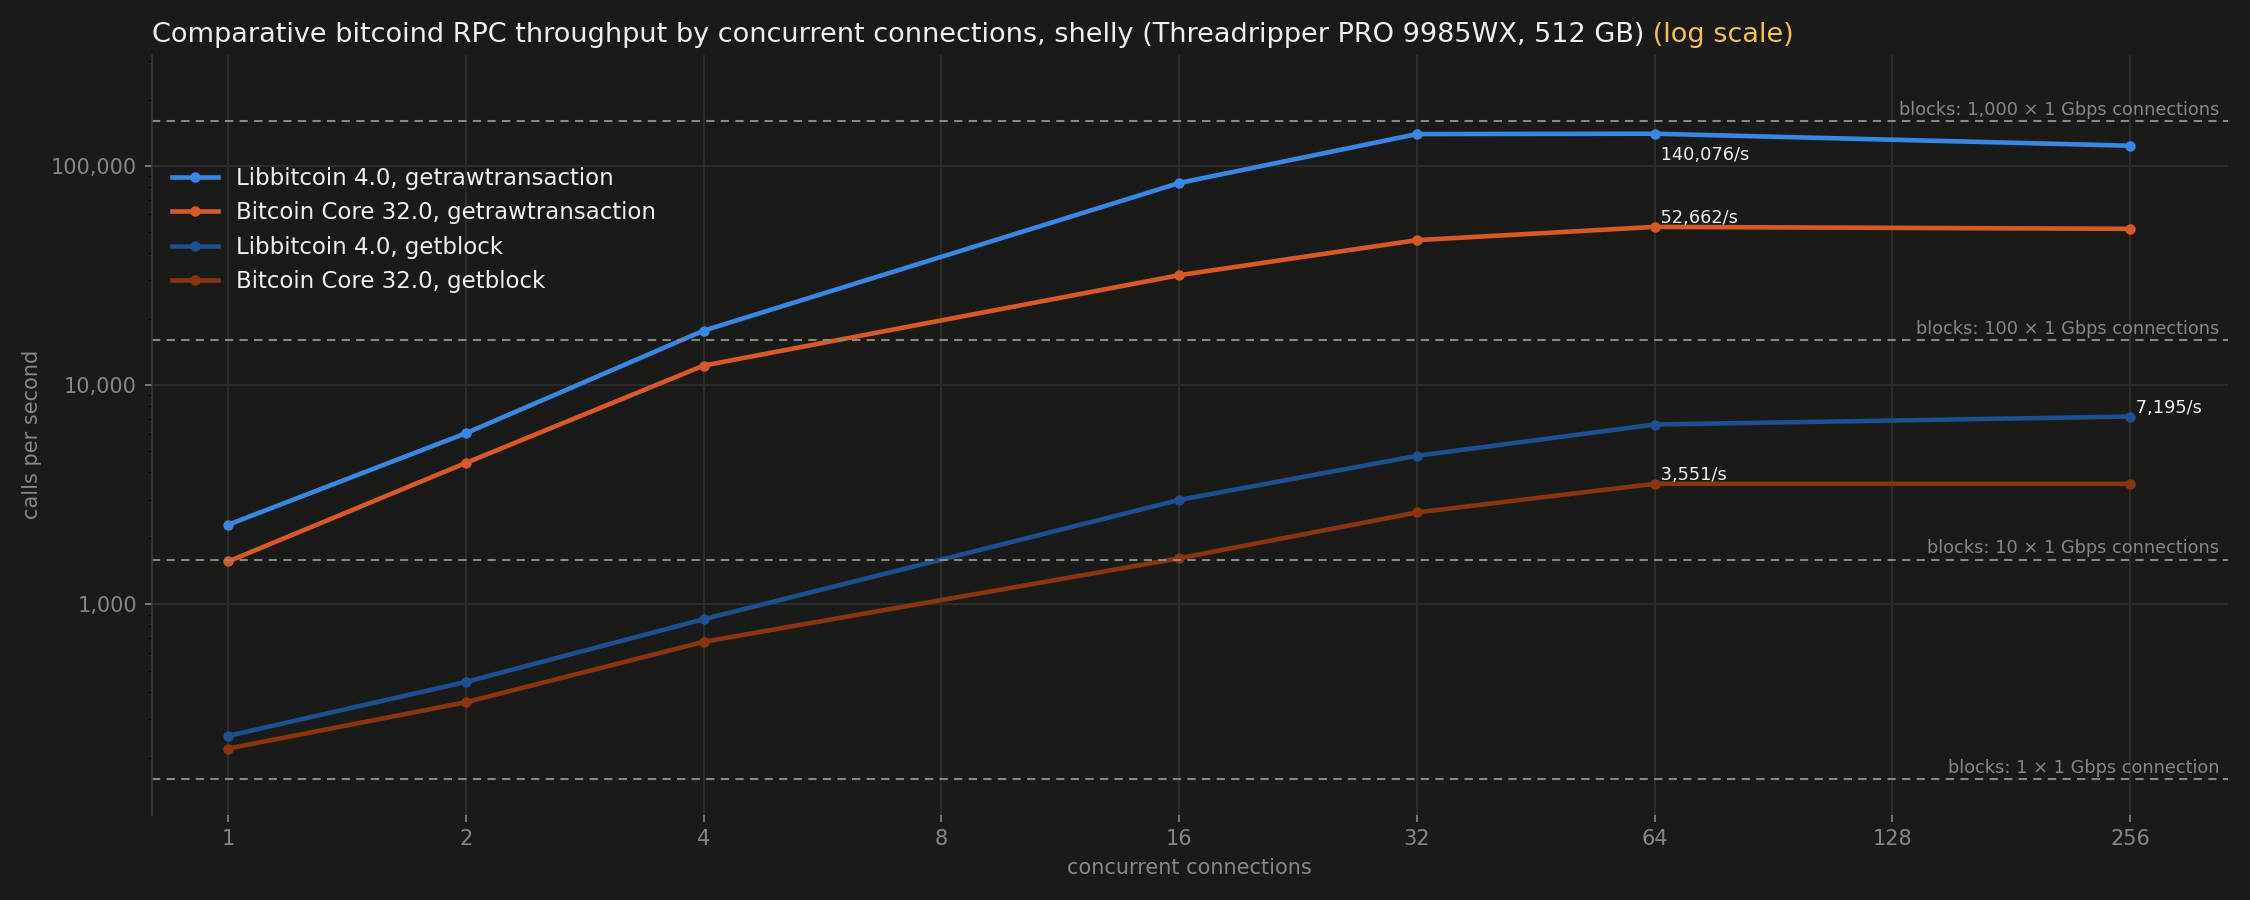
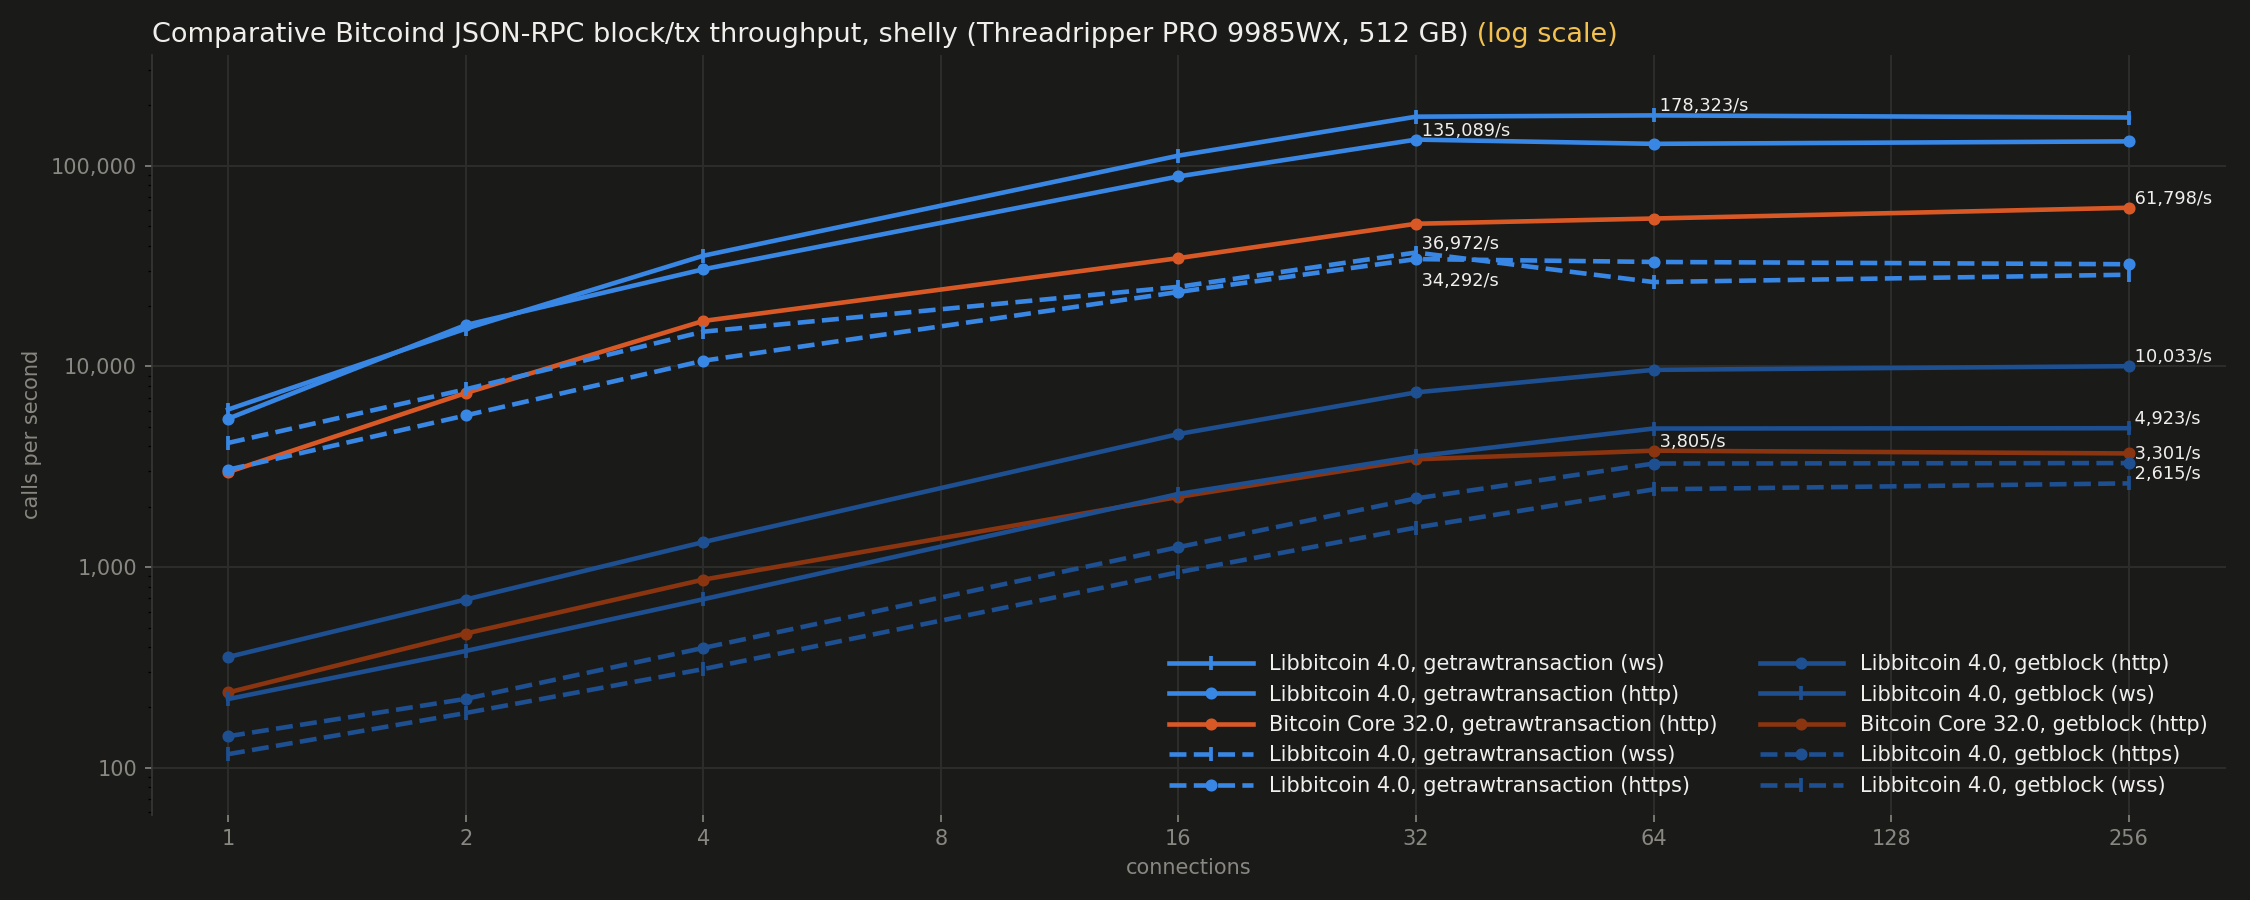
Move slack to team, update interface performance chars.

diff --git a/interface-performance.html b/interface-performance.html
@@ -249,7 +249,6 @@
       <a href="node-performance.html">Node performance</a>
       <a href="architecture/index.html">Node architecture</a>
       <a href="database/index.html">Database architecture</a>
-      <a href="slack/index.html">Slack</a>
       <a href="team.html">Team</a>
     </nav>
     <p class="lede">
@@ -295,44 +294,50 @@
     <h2 id="throughput">Throughput</h2>
     <div class="gallery">
       <figure class="shot" data-full="performance/server-throughput-p2ps-linear.png" tabindex="0">
-        <h3>Encrypted P2P (BIP324) block throughput by concurrent connections (linear scale)</h3>
-        <img src="performance/server-throughput-p2ps-linear.png" alt="Encrypted P2P (BIP324) block throughput by concurrent connections (linear scale)" loading="lazy">
-      </figure>
-      <figure class="shot" data-full="performance/server-throughput-p2ps.png" tabindex="0">
-        <h3>Encrypted P2P (BIP324) throughput by concurrent connections (log scale)</h3>
-        <img src="performance/server-throughput-p2ps.png" alt="Encrypted P2P (BIP324) throughput by concurrent connections (log scale)" loading="lazy">
+        <h3>P2P/S block throughput (linear scale)</h3>
+        <img src="performance/server-throughput-p2ps-linear.png" alt="P2P/S block throughput (linear scale)" loading="lazy">
       </figure>
       <figure class="shot" data-full="performance/server-throughput-p2p.png" tabindex="0">
-        <h3>P2P throughput by concurrent connections (log scale)</h3>
-        <img src="performance/server-throughput-p2p.png" alt="P2P throughput by concurrent connections (log scale)" loading="lazy">
+        <h3>P2P/S block/tx throughput (log scale)</h3>
+        <img src="performance/server-throughput-p2p.png" alt="P2P/S block/tx throughput (log scale)" loading="lazy">
       </figure>
       <figure class="shot" data-full="performance/server-throughput-rpc.png" tabindex="0">
-        <h3>RPC throughput by concurrent connections (log scale)</h3>
-        <img src="performance/server-throughput-rpc.png" alt="RPC throughput by concurrent connections (log scale)" loading="lazy">
+        <h3>Bitcoind JSON-RPC block/tx throughput (log scale)</h3>
+        <img src="performance/server-throughput-rpc.png" alt="Bitcoind JSON-RPC block/tx throughput (log scale)" loading="lazy">
       </figure>
       <figure class="shot" data-full="performance/server-throughput-rest.png" tabindex="0">
-        <h3>REST throughput by concurrent connections (log scale)</h3>
-        <img src="performance/server-throughput-rest.png" alt="REST throughput by concurrent connections (log scale)" loading="lazy">
+        <h3>Bitcoind REST block/tx throughput (log scale)</h3>
+        <img src="performance/server-throughput-rest.png" alt="Bitcoind REST block/tx throughput (log scale)" loading="lazy">
       </figure>
       <figure class="shot" data-full="performance/server-throughput-rest-hex.png" tabindex="0">
-        <h3>REST hex throughput by concurrent connections (log scale)</h3>
-        <img src="performance/server-throughput-rest-hex.png" alt="REST hex throughput by concurrent connections (log scale)" loading="lazy">
+        <h3>Bitcoind REST hex block/tx throughput (log scale)</h3>
+        <img src="performance/server-throughput-rest-hex.png" alt="Bitcoind REST hex block/tx throughput (log scale)" loading="lazy">
       </figure>
     </div>
     <p class="lede after">
       The other charts measure one connection at a time. Throughput is what a server delivers under
       many: each connection count requests its own set of blocks or transactions back to back for
-      20 seconds, repeating the set if it runs out, from 16 client processes, after a server restart
-      and cache purge, with both servers configured to accept the full connection count. The dashed
-      lines mark the block rate that 1, 10, 100 and 1,000 peer connections at 1 Gbps can carry, so a block curve
-      above a line means the network, not the server, would be the limit. Bitcoin Core serves only
+      20 seconds, repeating the set if it runs out, from 16 client processes, with both servers
+      configured to accept the full connection count. Each set is requested twice in succession and
+      the second, warm pass is shown. Block series purge the cache and restart the server before
+      every connection count; transaction series do so once per series. On the linear block chart,
+      the dashed line marks the block rate that 10 Gbps of network can carry, so a
+      block curve above the line means the network, not the server, would be the limit. Bitcoin Core serves only
       unconfirmed transactions over P2P, so P2P transactions are shown for Libbitcoin alone. Bitcoin
-      Core serves P2P blocks from a single thread and levels off at about
-      860 blocks per second from two connections, with latency growing in proportion to the load;
-      Libbitcoin serves them concurrently and reaches about 5,600 per second by 64 connections.
-      Over encrypted (BIP324) P2P, Libbitcoin reaches about 4,100 blocks per second and Bitcoin Core
-      about 520, while Libbitcoin transactions are faster than unencrypted, since BIP324 drops the
-      per-message double SHA-256 checksum and Libbitcoin's ChaCha20 is hardware accelerated.
+      Core serves P2P blocks from a single thread and levels off at about 1,100 blocks per second
+      from two connections, with latency growing in proportion to the load; Libbitcoin serves them
+      concurrently and reaches about 5,900 per second by 64 connections. Over encrypted (BIP324)
+      P2P, Libbitcoin reaches about 4,600 blocks per second and Bitcoin Core about 630, while
+      Libbitcoin transactions are faster than unencrypted, since BIP324 drops the per-message
+      double SHA-256 checksum and Libbitcoin's ChaCha20 is hardware accelerated.
+    </p>
+    <p class="lede after">
+      Bitcoin Core does not serve HTTPS or websockets, so HTTPS series (dashed) in the RPC and REST
+      charts, and the websocket and native charts, show Libbitcoin alone. HTTPS uses 256 listening
+      ports, one per connection. The HTTPS and secure websocket curves level off where the test
+      client's TLS saturates its processes; Libbitcoin uses under six cores at those rates, and the
+      rate rises with more client processes. Plain HTTP transactions level off near 140,000 per
+      second.
     </p>
   </section>
 
@@ -368,7 +373,8 @@
       </figure>
     </div>
     <p class="lede after">
-      Addresses are grouped by history size, and the largest class adds 27 addresses of 100k to
+      The Electrum interface is compared with <strong>Fulcrum 2.1.3</strong>, which indexes from Bitcoin
+      Core at default settings. Addresses are grouped by history size, and the largest class adds 27 addresses of 100k to
       2.2M entries. The 0 entries class uses 300 script hashes that own no output, the query a
       wallet makes most often when it scans past its last used address, and is plotted in calls per
       second. Address history rates are entries returned per second of call time.
@@ -388,7 +394,8 @@
       </figure>
     </div>
     <p class="lede after">
-      A silent payments scan subscribes one scan key to a range of blocks ending at 950,000, and is
+      The Sparrow interface is compared with <strong>Frigate 1.6.1</strong>, which indexes silent payments
+      from Bitcoin Core. A silent payments scan subscribes one scan key to a range of blocks ending at 950,000, and is
       timed from the subscription to the notification of completion. Each of three repetitions
       purges the standby list, scans cold with a new key, then scans warm with the same key. Rates
       are blocks of the range per second, and each range is labeled with its approximate span of
@@ -426,6 +433,9 @@
         <img src="performance/server-bitcoind.png" alt="Chain object rate: comparative (log scale)" loading="lazy">
       </figure>
     </div>
+    <p class="lede after">
+      The bitcoind JSON-RPC interface is compared with <strong>Bitcoin Core 32.0</strong>.
+    </p>
   </section>
 
   <section>
@@ -436,22 +446,25 @@
         <img src="performance/server-rest.png" alt="Chain object rate: comparative (log scale)" loading="lazy">
       </figure>
     </div>
+    <p class="lede after">
+      The bitcoind REST interface is compared with <strong>Bitcoin Core 32.0</strong>.
+    </p>
   </section>
 
   <section>
     <h2 id="bitcoind-zmq-interface">Bitcoind ZMQ Interface</h2>
     <div class="gallery">
       <figure class="shot" data-full="performance/server-zmq.png" tabindex="0">
-        <h3>Rawtx notification rate: comparative (log scale)</h3>
-        <img src="performance/server-zmq.png" alt="Rawtx notification rate: comparative (log scale)" loading="lazy">
+        <h3>Chain object rate: comparative (log scale)</h3>
+        <img src="performance/server-zmq.png" alt="Chain object rate: comparative (log scale)" loading="lazy">
       </figure>
     </div>
     <p class="lede after">
       Each server is at block 950,000 with an empty pool. The 28,142 transactions of blocks
       950,001 to 950,009 are offered in block order by one P2P peer (inventory, then the
       transaction when requested), and each is timed from its send to the arrival of its rawtx
-      notification on a ZMQ subscription. Latency is over the 24,517 transactions both servers
-      accepted. Libbitcoin accepted 1,421 more transactions, as Bitcoin Core's clustered mempool
+      notification on a ZMQ subscription. Rates are 1000 / mean latency over the 24,517
+      transactions both servers accepted. Libbitcoin accepted 1,421 more transactions, as Bitcoin Core's clustered mempool
       imposes a hardwired capacity limit for performance reasons. Both rejected 2,204 transactions
       that were not yet valid at block 950,000: 1,522 are time-locked to a later block, 55 have
       unsatisfied relative lock times (BIP68), and 627 spend outputs of those.
@@ -471,32 +484,18 @@
   <section>
     <h2 id="methodology">Methodology</h2>
     <p class="lede">
-      All servers run on one machine, shelly (Threadripper PRO 9985WX, 512 GB, Windows 11), one
-      stack at a time, each with a store at block 950,000 on its own volume. The client is on the
-      same machine, over loopback, making sequential calls on one connection.
+      Servers run one at a time on shelly (Threadripper PRO 9985WX, 512 GB, Windows 11), each with a
+      store at block 950,000, called over loopback from the same machine.
       <strong>Libbitcoin 4.0</strong> serves from its own store (address index load factor 5).
       <strong>Bitcoin Core 32.0</strong> has txindex, txospenderindex and the basic block filter
-      index, with networking disabled. <strong>Fulcrum 2.1.3</strong> indexes from that Bitcoin Core, at
-      default settings. <strong>Frigate 1.6.1</strong> indexes silent
-      payments from that Bitcoin Core. The Electrum interface is compared with Fulcrum, the Sparrow
-      interface with Frigate, and the bitcoind JSON-RPC and REST interfaces with Bitcoin Core.
-    </p>
-    <p class="lede">
-      Each method is called with 300 unique requests, drawn from random blocks over the whole
-      chain: a block, a transaction and an output script from each.
-    </p>
-    <p class="lede">
-      Each of three repetitions, on its own requests, stops the servers, empties working sets,
-      flushes modified pages and purges the standby list, restarts the servers and waits until
-      idle, sends 5 s of untimed pings, then makes a cold pass in shuffled order and a warm pass on
-      the same requests in another order. Every cold pass therefore starts with nothing resident,
-      including each server's own caches.
+      index.
     </p>
     <p class="lede after">
-      A call is timed from request to the last response byte, received into a preallocated
-      buffer, with parsing after timing. Rates are calls per second (1000 / mean ms). Bitcoin Core
-      and Fulcrum hold all headers in memory, so they have no cold header query, and their warm
-      header bars are hatched.
+      Unless noted, each method is called 300 times, one call at a time on one connection, with
+      requests drawn from random blocks across the chain. Each of three repetitions purges all
+      caches and restarts the servers, then makes a cold pass and a warm pass on the same requests.
+      Calls are timed to the last response byte, and rates are calls per second (1000 / mean ms).
+      Bitcoin Core and Fulcrum hold all headers in memory, so their warm header bars are hatched.
     </p>
   </section>
 

diff --git a/team.html b/team.html
@@ -187,9 +187,11 @@
       <a href="node-performance.html">Node performance</a>
       <a href="architecture/index.html">Node architecture</a>
       <a href="database/index.html">Database architecture</a>
-      <a href="slack/index.html">Slack</a>
       <a href="team.html" class="here">Team</a>
     </nav>
+    <p class="lede">
+      Current team <a href="slack/index.html">Slack mirror</a> with full history.
+    </p>
     <p class="lede">
       <strong>Libbitcoin Time 2026</strong>: the development history of the libbitcoin
       repositories.

diff --git a/architecture/block-out-protocols.html b/architecture/block-out-protocols.html
@@ -224,7 +224,6 @@
       <a href="../node-performance.html">Node performance</a>
       <a href="../architecture/index.html" class="here">Node architecture</a>
       <a href="../database/index.html">Database architecture</a>
-      <a href="../slack/index.html">Slack</a>
       <a href="../team.html">Team</a>
     </nav>
     <p class="lede">

diff --git a/architecture/confirmation-chaser.html b/architecture/confirmation-chaser.html
@@ -224,7 +224,6 @@
       <a href="../node-performance.html">Node performance</a>
       <a href="../architecture/index.html" class="here">Node architecture</a>
       <a href="../database/index.html">Database architecture</a>
-      <a href="../slack/index.html">Slack</a>
       <a href="../team.html">Team</a>
     </nav>
     <p class="lede">

diff --git a/architecture/download-chaser.html b/architecture/download-chaser.html
@@ -224,7 +224,6 @@
       <a href="../node-performance.html">Node performance</a>
       <a href="../architecture/index.html" class="here">Node architecture</a>
       <a href="../database/index.html">Database architecture</a>
-      <a href="../slack/index.html">Slack</a>
       <a href="../team.html">Team</a>
     </nav>
     <p class="lede">

diff --git a/architecture/event-bus.html b/architecture/event-bus.html
@@ -224,7 +224,6 @@
       <a href="../node-performance.html">Node performance</a>
       <a href="../architecture/index.html" class="here">Node architecture</a>
       <a href="../database/index.html">Database architecture</a>
-      <a href="../slack/index.html">Slack</a>
       <a href="../team.html">Team</a>
     </nav>
     <p class="lede">

diff --git a/architecture/filter-out-protocol.html b/architecture/filter-out-protocol.html
@@ -224,7 +224,6 @@
       <a href="../node-performance.html">Node performance</a>
       <a href="../architecture/index.html" class="here">Node architecture</a>
       <a href="../database/index.html">Database architecture</a>
-      <a href="../slack/index.html">Slack</a>
       <a href="../team.html">Team</a>
     </nav>
     <p class="lede">

diff --git a/architecture/header-chaser.html b/architecture/header-chaser.html
@@ -224,7 +224,6 @@
       <a href="../node-performance.html">Node performance</a>
       <a href="../architecture/index.html" class="here">Node architecture</a>
       <a href="../database/index.html">Database architecture</a>
-      <a href="../slack/index.html">Slack</a>
       <a href="../team.html">Team</a>
     </nav>
     <p class="lede">

diff --git a/architecture/header-protocols.html b/architecture/header-protocols.html
@@ -224,7 +224,6 @@
       <a href="../node-performance.html">Node performance</a>
       <a href="../architecture/index.html" class="here">Node architecture</a>
       <a href="../database/index.html">Database architecture</a>
-      <a href="../slack/index.html">Slack</a>
       <a href="../team.html">Team</a>
     </nav>
     <p class="lede">

diff --git a/architecture/index.html b/architecture/index.html
@@ -224,7 +224,6 @@
       <a href="../node-performance.html">Node performance</a>
       <a href="../architecture/index.html" class="here">Node architecture</a>
       <a href="../database/index.html">Database architecture</a>
-      <a href="../slack/index.html">Slack</a>
       <a href="../team.html">Team</a>
     </nav>
     <p class="lede">

diff --git a/architecture/overview.html b/architecture/overview.html
@@ -224,7 +224,6 @@
       <a href="../node-performance.html">Node performance</a>
       <a href="../architecture/index.html" class="here">Node architecture</a>
       <a href="../database/index.html">Database architecture</a>
-      <a href="../slack/index.html">Slack</a>
       <a href="../team.html">Team</a>
     </nav>
     <p class="lede">

diff --git a/architecture/periphery-chasers.html b/architecture/periphery-chasers.html
@@ -224,7 +224,6 @@
       <a href="../node-performance.html">Node performance</a>
       <a href="../architecture/index.html" class="here">Node architecture</a>
       <a href="../database/index.html">Database architecture</a>
-      <a href="../slack/index.html">Slack</a>
       <a href="../team.html">Team</a>
     </nav>
     <p class="lede">
